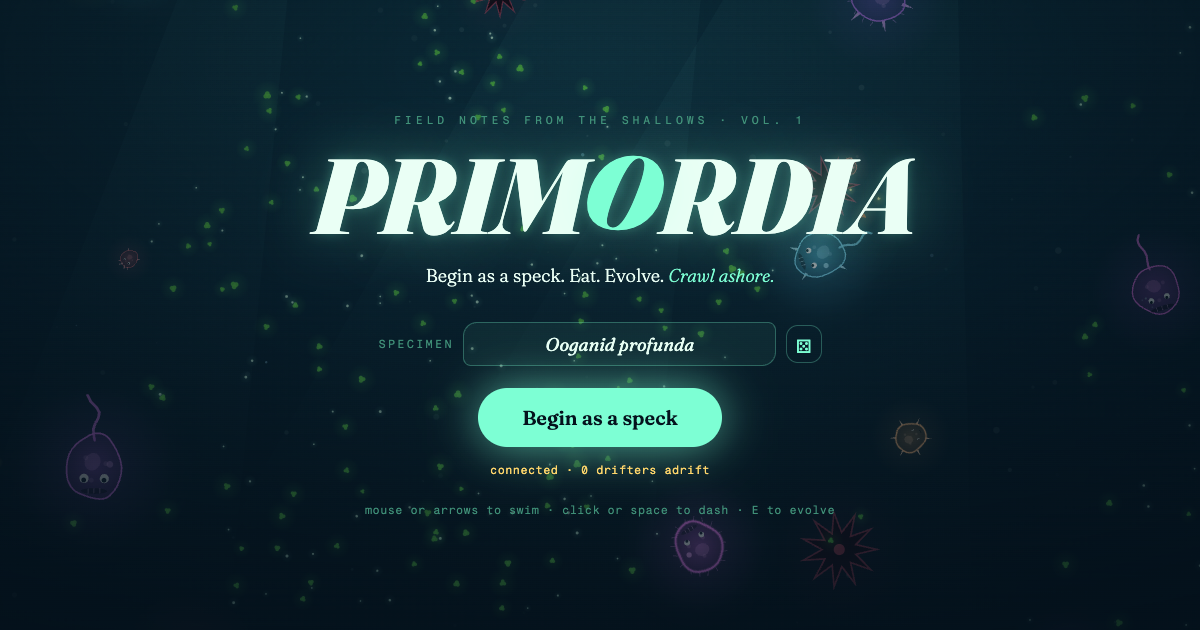
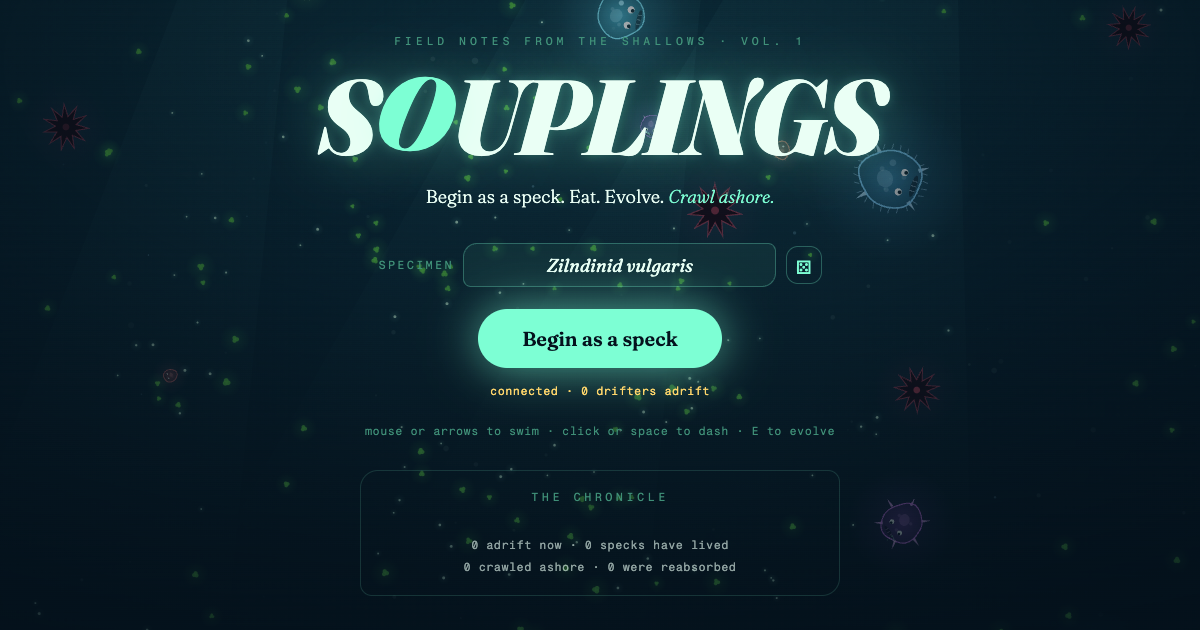
Rename to SOUPLINGS; arrow-key + touch controls, chronicle, share cards, OG tags

diff --git a/public/index.html b/public/index.html
@@ -4,9 +4,9 @@
 <meta charset="utf-8">
 <meta name="viewport" content="width=device-width, initial-scale=1, maximum-scale=1, user-scalable=no, viewport-fit=cover">
 <meta name="theme-color" content="#04121d">
-<title>PRIMORDIA — a tide-pool evolution</title>
+<title>SOUPLINGS — a tide-pool evolution</title>
 <meta name="description" content="A multiplayer evolution game. Begin as a speck. Eat. Evolve. Crawl ashore — before something bigger finds you.">
-<meta property="og:title" content="PRIMORDIA — a multiplayer tide-pool evolution">
+<meta property="og:title" content="SOUPLINGS — a multiplayer tide-pool evolution">
 <meta property="og:description" content="Begin as a speck. Eat. Evolve. Crawl ashore — before something bigger finds you.">
 <meta property="og:type" content="website">
 <meta property="og:image" content="__ORIGIN__/og.png">
@@ -53,7 +53,7 @@
 <div id="title" class="screen">
   <div class="titleInner">
     <p class="overline">field notes from the shallows · vol. 1</p>
-    <h1>PRIM<span class="tilt">O</span>RDIA</h1>
+    <h1>S<span class="tilt">O</span>UPLINGS</h1>
     <p class="tagline">Begin as a speck. Eat. Evolve. <em>Crawl ashore.</em></p>
 
     <div class="nameRow">

diff --git a/public/js/game.js b/public/js/game.js
@@ -1,5 +1,5 @@
 /* ============================================================
-   PRIMORDIA — networked client: interpolation, input, UI.
+   SOUPLINGS — networked client: interpolation, input, UI.
    The server owns the simulation; this file renders it.
    ============================================================ */
 
@@ -176,7 +176,7 @@ function shareDeath(){
   const m = Net.lastDead;
   if (!m) return;
   const s = m.stats;
-  shareText(`My speck ${s.name} survived ${fmtTime(s.survived)} in PRIMORDIA before being undone by ${m.by || 'the soup'}. Avenge ${s.name}:`);
+  shareText(`My speck ${s.name} survived ${fmtTime(s.survived)} in SOUPLINGS before being undone by ${m.by || 'the soup'}. Avenge ${s.name}:`);
 }
 
 function shareWin(){

diff --git a/server/worker.js b/server/worker.js
@@ -1,5 +1,5 @@
 /* ============================================================
-   PRIMORDIA on Cloudflare — Worker entry + Soup Durable Object
+   SOUPLINGS on Cloudflare — Worker entry + Soup Durable Object
    One DO instance holds the one shared soup; clients attach
    over WebSockets and receive 15 Hz world snapshots.
    ============================================================ */
@@ -38,7 +38,7 @@ export default {
 export class Soup {
   constructor(state, env){
     this.state = state;
-    this.debug = env.PRIMORDIA_DEBUG === '1' || env.PRIMORDIA_DEBUG === 'true';
+    this.debug = env.SOUPLINGS_DEBUG === '1' || env.SOUPLINGS_DEBUG === 'true';
     this.world = new World(WORLD_R);
     this.clients = new Map();   // ws -> client
     this.events = [];

diff --git a/public/css/style.css b/public/css/style.css
@@ -1,5 +1,5 @@
 /* ============================================================
-   PRIMORDIA — abyssal naturalist UI
+   SOUPLINGS — abyssal naturalist UI
    deep teal water · mint bioluminescence · coral danger · gold DNA
    ============================================================ */
 

diff --git a/public/js/audio.js b/public/js/audio.js
@@ -1,5 +1,5 @@
 /* ============================================================
-   PRIMORDIA — audio: everything synthesized, zero assets
+   SOUPLINGS — audio: everything synthesized, zero assets
    ============================================================ */
 
 const AudioSys = {

diff --git a/public/js/creature.js b/public/js/creature.js
@@ -1,5 +1,5 @@
 /* ============================================================
-   PRIMORDIA — Cell: physics, AI brain, procedural rendering
+   SOUPLINGS — Cell: physics, AI brain, procedural rendering
    ============================================================ */
 
 class Cell {

diff --git a/public/js/net.js b/public/js/net.js
@@ -1,5 +1,5 @@
 /* ============================================================
-   PRIMORDIA — client networking: WebSocket to the Soup
+   SOUPLINGS — client networking: WebSocket to the Soup
    ============================================================ */
 
 const Net = {

diff --git a/public/js/parts.js b/public/js/parts.js
@@ -1,5 +1,5 @@
 /* ============================================================
-   PRIMORDIA — parts catalog, stat derivation, species names
+   SOUPLINGS — parts catalog, stat derivation, species names
    ============================================================ */
 
 const PARTS = {

diff --git a/public/js/util.js b/public/js/util.js
@@ -1,5 +1,5 @@
 /* ============================================================
-   PRIMORDIA — util: math helpers & glow sprite cache
+   SOUPLINGS — util: math helpers & glow sprite cache
    ============================================================ */
 
 const TAU = Math.PI * 2;

diff --git a/public/js/world.js b/public/js/world.js
@@ -1,5 +1,5 @@
 /* ============================================================
-   PRIMORDIA — World: food, hazards, particles, atmosphere
+   SOUPLINGS — World: food, hazards, particles, atmosphere
    ============================================================ */
 
 const FOOD_DEF = {

diff --git a/README.md b/README.md
@@ -1,4 +1,4 @@
-# PRIMORDIA
+# SOUPLINGS
 
 A multiplayer evolution game inspired by Spore's cell stage, running on
 Cloudflare Workers + Durable Objects. Everyone shares one persistent tide
@@ -17,23 +17,39 @@ Then open http://localhost:8787 — in as many browser windows as you want
 players. (`--ignore-scripts` sidesteps a `sharp` source build that fails on
 some machines; sharp is an unused miniflare image dependency.)
 
-## Deploy to Cloudflare
+## Deploy: push-to-deploy from GitHub (recommended)
+
+The repo lives at https://github.com/Shpigford/souplings. One-time setup in
+the Cloudflare dashboard:
+
+1. **Workers & Pages → Create application → Workers → Import a repository**
+2. Connect your GitHub account and pick `Shpigford/souplings`
+3. Accept the defaults — `wrangler.jsonc` drives everything (the deploy
+   command is `npx wrangler deploy`; the sim bundle is generated by the
+   build hook automatically). If the build fails on `sharp`, set the
+   install command to `npm install --ignore-scripts`.
+4. Deploy. Every push to `main` now auto-deploys.
+
+Or deploy straight from your machine:
 
 ```
 npx wrangler login
 npm run deploy
 ```
 
-That's the whole thing: the Worker serves the static client from `public/`,
-and a single Durable Object (`Soup`) runs the authoritative world simulation,
-ticking at 30 Hz and broadcasting 15 Hz snapshots to every connected player.
-When the last player leaves, the soup goes dormant; a fresh one is seeded on
-the next visit.
+Either way: the Worker serves the static client from `public/`, and a single
+Durable Object (`Soup`) runs the authoritative world simulation, ticking at
+30 Hz and broadcasting 15 Hz snapshots to every connected player. World
+stats (the chronicle) persist in the DO's storage. When the last player
+leaves, the soup goes dormant; the wildlife is reseeded on the next visit
+but the chronicle endures.
 
 ## Play
 
-- **Mouse** — swim toward the cursor
+- **Mouse or arrow keys / WASD** — swim
 - **Click / Space** — dash (short cooldown)
+- **Touch (mobile)** — hold to swim toward your finger; double-tap or the
+  on-screen button to dash
 - **E** — open/close the Evolution Chamber (the soup does not pause!)
 - **M** — mute
 
@@ -42,6 +58,12 @@ things die — including other players. Warm-colored cells bite. Urchins are
 hazards. The central shallows are a gentle nursery; monsters patrol the deep
 rim, so venture outward as you grow. Fill the growth bar to molt; survive
 five generations to win, then rejoin as a fresh speck.
+
+The title screen shows **the chronicle** — persistent all-time world stats:
+specks lived, emergences, deaths, players eaten by players, the fastest
+emergence, and the deadliest drifter. Death and victory screens have share
+buttons (Web Share API with clipboard fallback), deaths name your killer so
+you know who to avenge, and share links unfurl with an OG card.
 
 ## Architecture
 